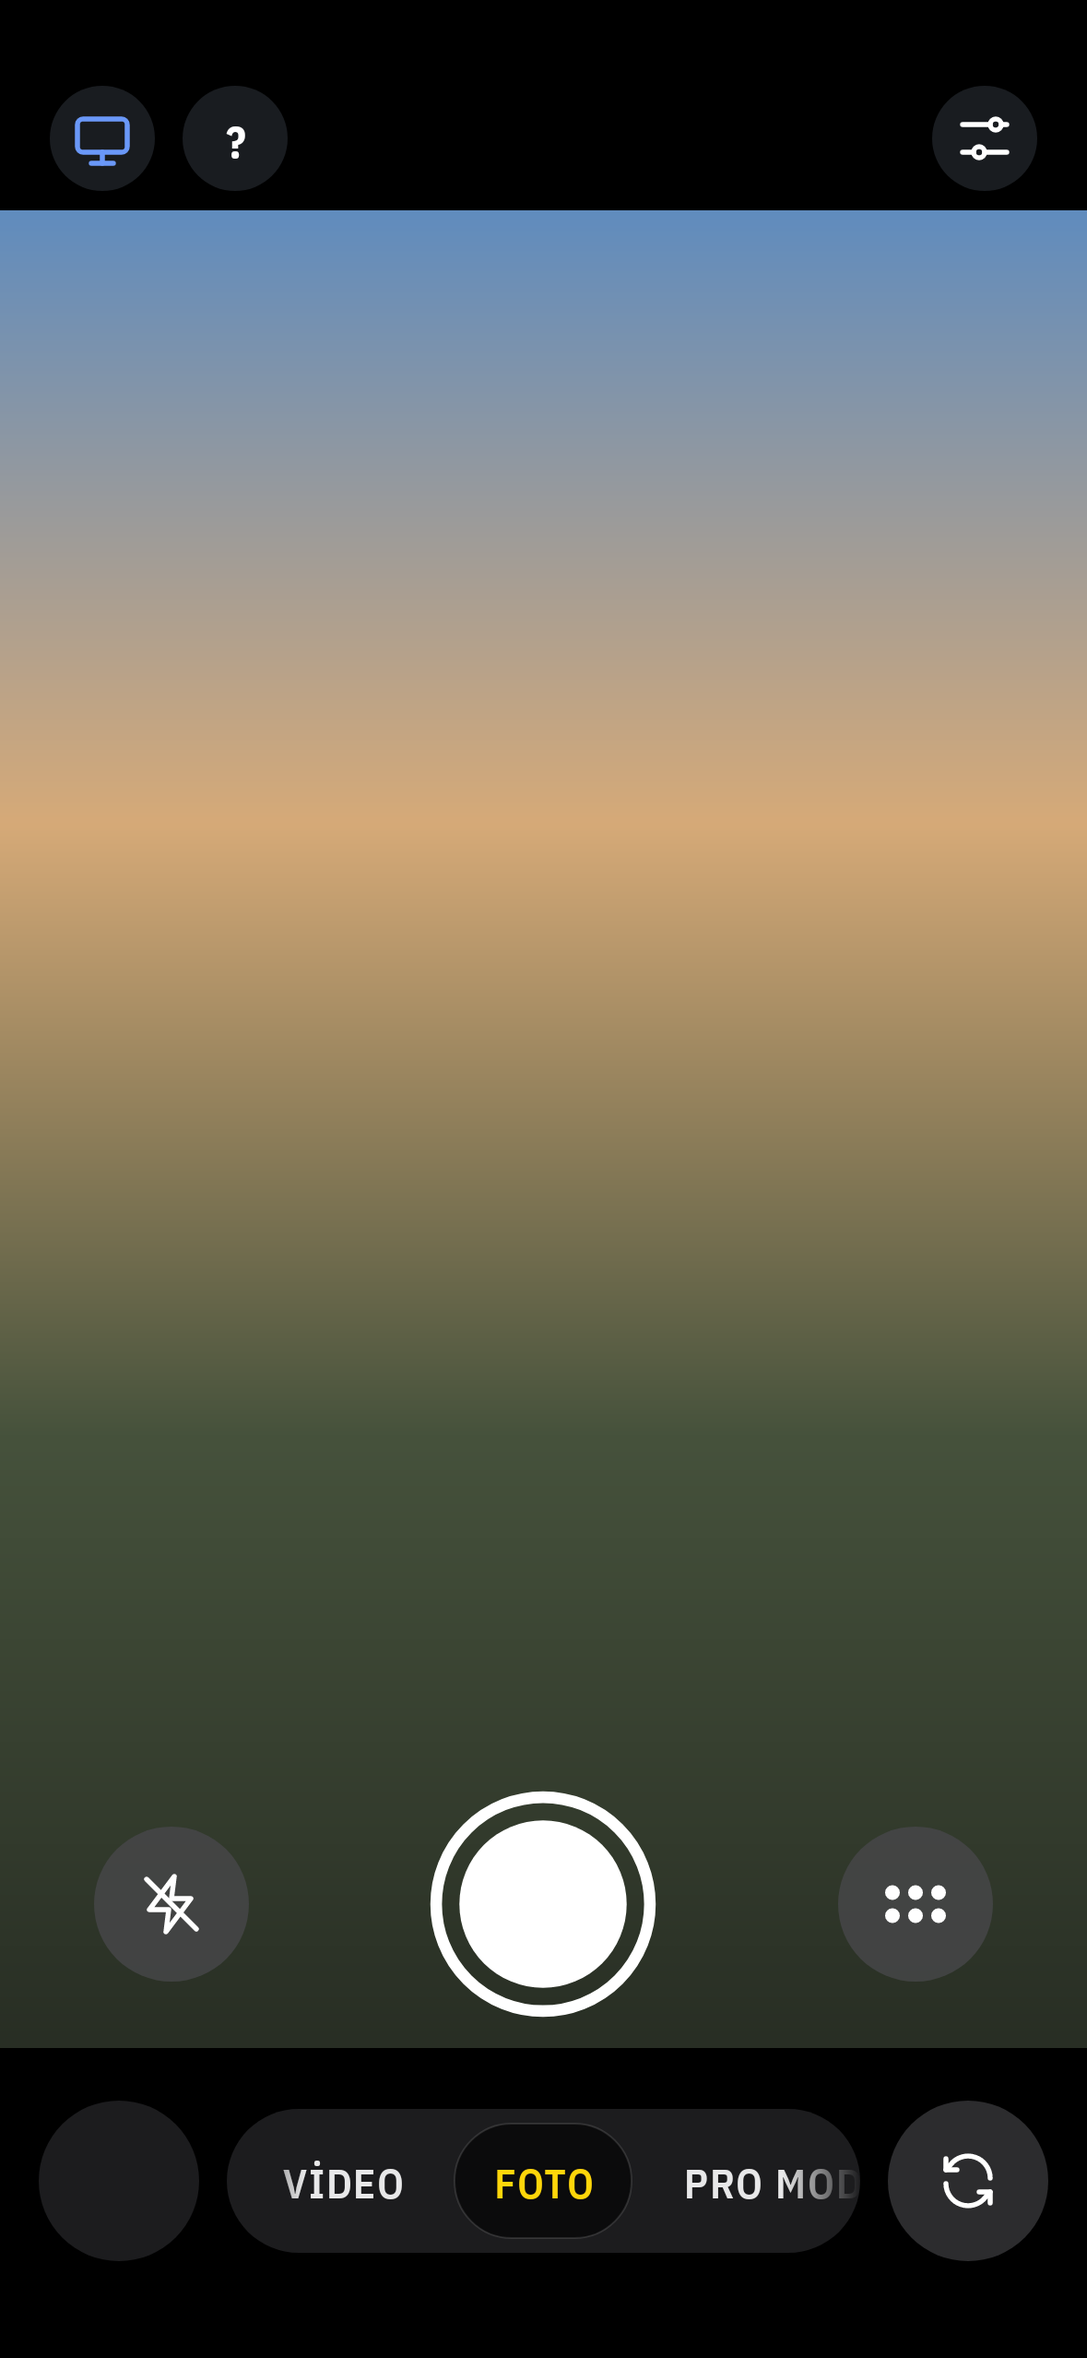
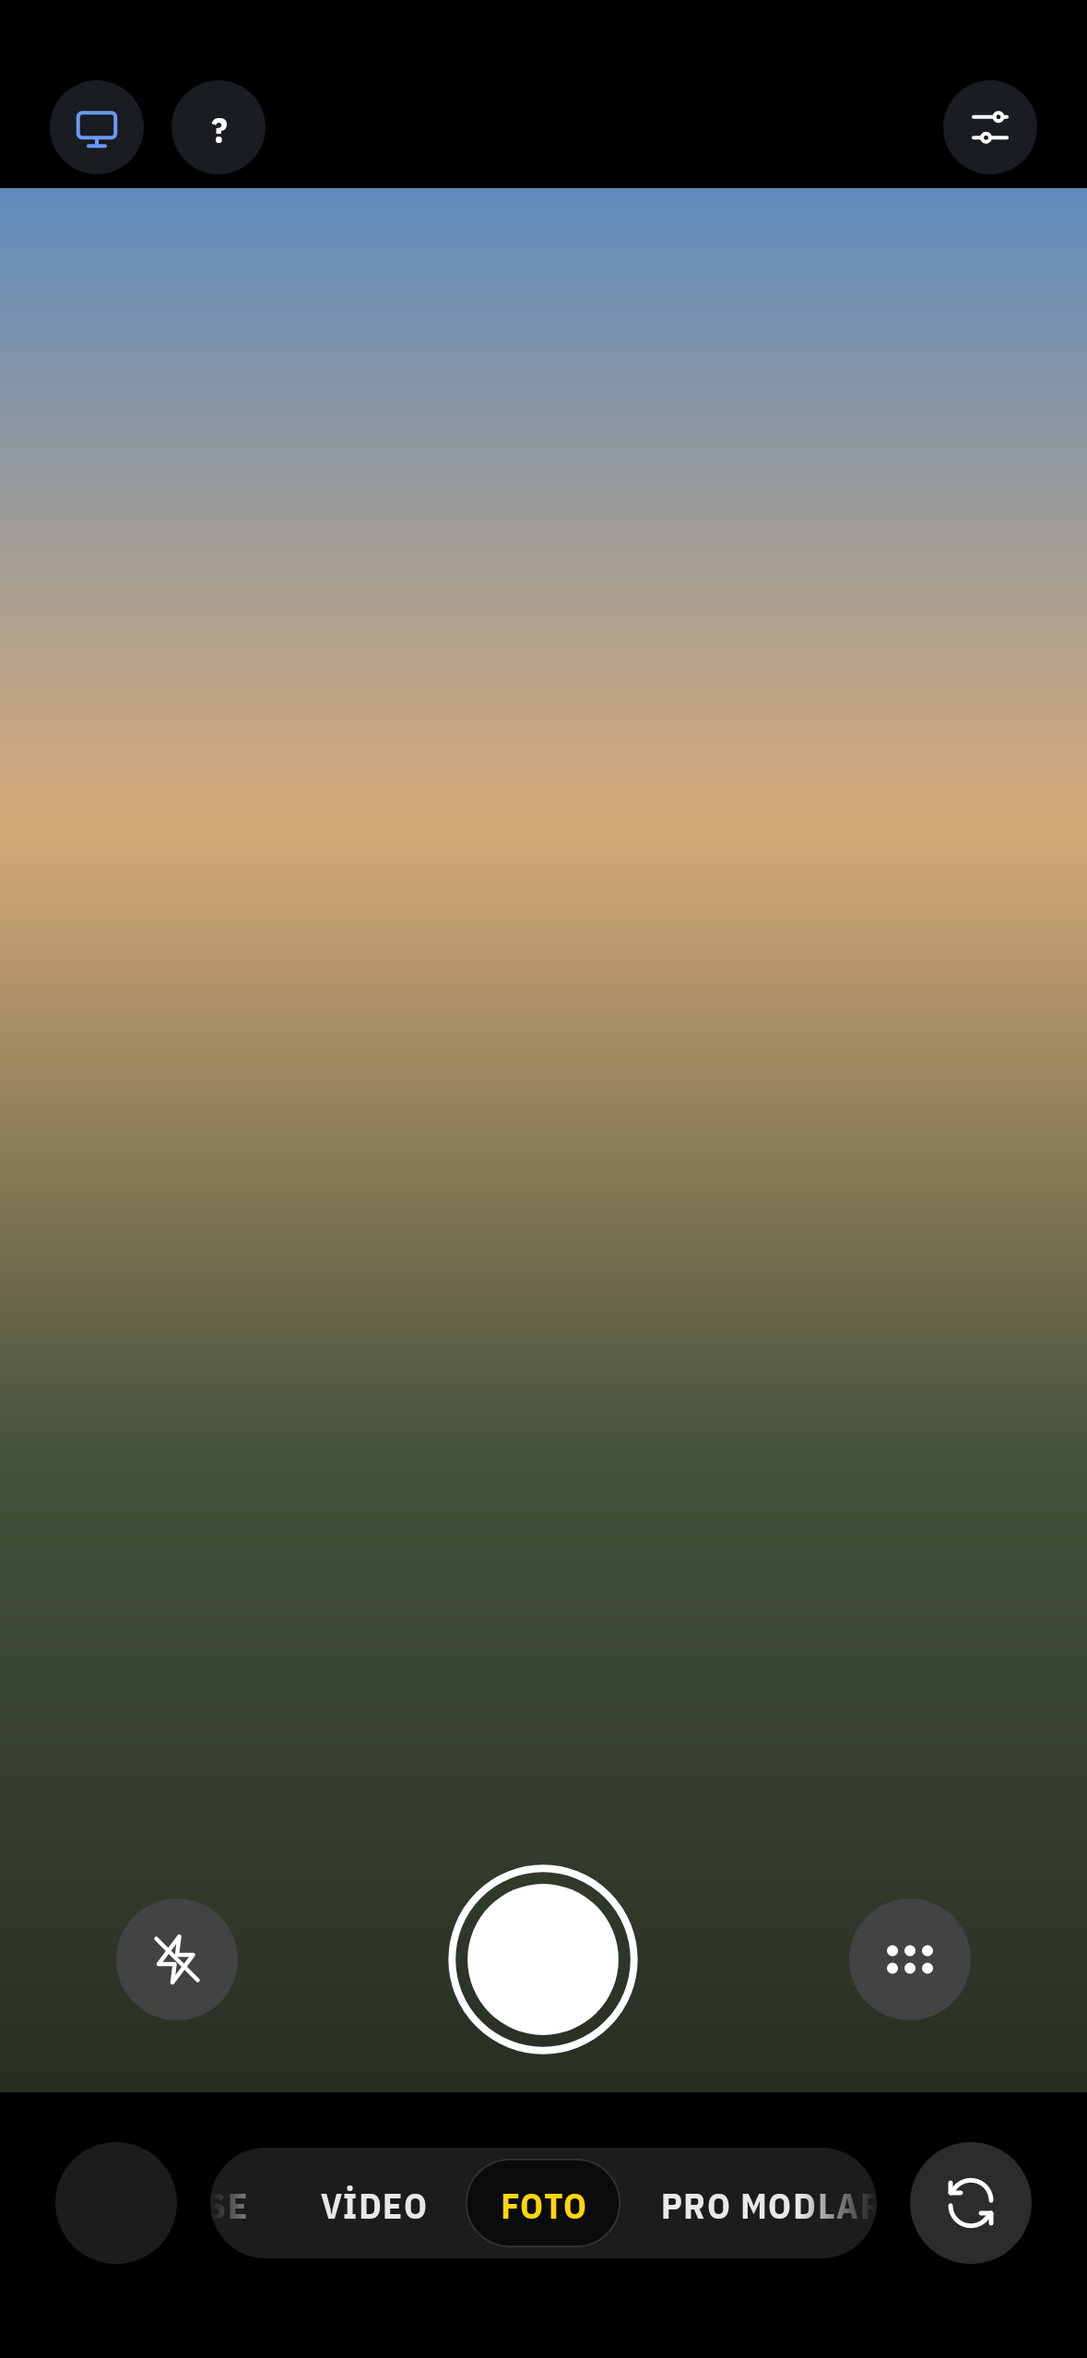
Android Kamera: düğmeler küçük ve ince (yan 44, deklanşör 70 ince halka, mod kapsülü 40 / yazı 13, üst 34)

Changed region(s): [[0.0, 0.7418, 1.0, 0.9581], [0.0, 0.0309, 1.0, 0.0927]]

diff --git a/uygulamalar/monitor/app/src/main/java/tr/com/updated/monitor/KameraActivity.kt b/uygulamalar/monitor/app/src/main/java/tr/com/updated/monitor/KameraActivity.kt
@@ -261,7 +261,7 @@ class KameraActivity : Activity() {
         bilgiSira = LinearLayout(this).apply { orientation = LinearLayout.HORIZONTAL; gravity = Gravity.CENTER; contentDescription = "Biçim"; setOnClickListener { bicimAc() }
             setPadding(dp(10f), dp(4f), dp(10f), dp(4f)) }
         aciklamalar.add(bilgiSira to "Biçim")
-        kutu.addView(bilgiSira, FrameLayout.LayoutParams(-2, dp(46f), Gravity.TOP or Gravity.CENTER_HORIZONTAL).apply { topMargin = dp(8f) })
+        kutu.addView(bilgiSira, FrameLayout.LayoutParams(-2, dp(38f), Gravity.TOP or Gravity.CENTER_HORIZONTAL).apply { topMargin = dp(6f) })
         kutu.addView(kayitCip, FrameLayout.LayoutParams(-2, dp(30f), Gravity.TOP or Gravity.CENTER_HORIZONTAL).apply { topMargin = dp(14f) })
         ortaYazi = TextView(this).apply { textSize = 88f; typeface = kosulKalin; setTextColor(Color.WHITE); setShadowLayer(12f, 0f, 0f, Color.BLACK); visibility = View.GONE; gravity = Gravity.CENTER }
         donenler.add(ortaYazi)
@@ -271,15 +271,15 @@ class KameraActivity : Activity() {
 
         // Üst bant: solda Monitör ve "?", sağda Ayarlar (flaş, biçim ve PRO deklanşör sırasında ve ⋯ kontrollerde)
         ustSerit = LinearLayout(this).apply { orientation = LinearLayout.HORIZONTAL; gravity = Gravity.CENTER_VERTICAL; setPadding(dp(2f), 0, dp(2f), 0) }
-        ustSerit.addView(ikon(R.drawable.ic_monitor, "Monitör") { monitoreGec() }.apply { setColorFilter(MAVI_ACIK); background = Tema.kapsul(CAM); aciklamalar.add(this to "Harici kamera (USB)") },
-            LinearLayout.LayoutParams(dp(38f), dp(38f)).apply { marginEnd = dp(10f) })
-        val yardim = etiket("?", 16f).apply { typeface = kosulKalin; background = Tema.kapsul(CAM); contentDescription = "Açıklamalar"; setOnClickListener { yardimAcKapat() } }
-        donenler.add(yardim); ustSerit.addView(yardim, LinearLayout.LayoutParams(dp(38f), dp(38f))); aciklamalar.add(yardim to "Açıklamalar")
+        ustSerit.addView(ikon(R.drawable.ic_monitor, "Monitör") { monitoreGec() }.apply { setColorFilter(MAVI_ACIK); background = Tema.kapsul(CAM); scaleType = ImageView.ScaleType.FIT_CENTER; setPadding(dp(8f), dp(8f), dp(8f), dp(8f)); aciklamalar.add(this to "Harici kamera (USB)") },
+            LinearLayout.LayoutParams(dp(34f), dp(34f)).apply { marginEnd = dp(10f) })
+        val yardim = etiket("?", 13f).apply { typeface = kosulKalin; background = Tema.kapsul(CAM); contentDescription = "Açıklamalar"; setOnClickListener { yardimAcKapat() } }
+        donenler.add(yardim); ustSerit.addView(yardim, LinearLayout.LayoutParams(dp(34f), dp(34f))); aciklamalar.add(yardim to "Açıklamalar")
         ustSerit.addView(View(this), LinearLayout.LayoutParams(0, 1, 1f))
-        ustSerit.addView(ikon(R.drawable.ic_ayar, "Ayarlar") { ayarlarAc() }.apply { background = Tema.kapsul(CAM); aciklamalar.add(this to "Ayarlar") }, LinearLayout.LayoutParams(dp(38f), dp(38f)))
+        ustSerit.addView(ikon(R.drawable.ic_ayar, "Ayarlar") { ayarlarAc() }.apply { background = Tema.kapsul(CAM); scaleType = ImageView.ScaleType.FIT_CENTER; setPadding(dp(8f), dp(8f), dp(8f), dp(8f)); aciklamalar.add(this to "Ayarlar") }, LinearLayout.LayoutParams(dp(34f), dp(34f)))
         kok.addView(ustSerit)
         // Flaş simgesi deklanşörün solundaki dairede
-        flasIkon = ImageView(this).apply { setImageResource(R.drawable.ic_flas_yok); scaleType = ImageView.ScaleType.CENTER }
+        flasIkon = ImageView(this).apply { setImageResource(R.drawable.ic_flas_yok); scaleType = ImageView.ScaleType.FIT_CENTER; setPadding(dp(12f), dp(12f), dp(12f), dp(12f)) }
         flasHarf = TextView(this).apply { text = "A"; textSize = 9f; typeface = kosulKalin; setTextColor(Color.WHITE); visibility = View.GONE }
 
         // Araç şeridi (eski düzen): araçların durumu burada tutulur
@@ -305,19 +305,19 @@ class KameraActivity : Activity() {
         // Deklanşör sırası: solda flaş (PRO'da mod), ortada deklanşör, sağda ⋯ kontroller
         deklansorSira = FrameLayout(this)
         solDugme = FrameLayout(this).apply { setOnClickListener { if (mod == KMod.PRO) proKartlar() else flasDegistir() }; contentDescription = "Flaş"; background = daire(false) }
-        proIkon = ImageView(this).apply { scaleType = ImageView.ScaleType.CENTER; setColorFilter(VURGU); visibility = View.GONE }
+        proIkon = ImageView(this).apply { scaleType = ImageView.ScaleType.FIT_CENTER; setPadding(dp(11f), dp(11f), dp(11f), dp(11f)); setColorFilter(VURGU); visibility = View.GONE }
         solDugme.addView(flasIkon, FrameLayout.LayoutParams(-1, -1)); solDugme.addView(proIkon, FrameLayout.LayoutParams(-1, -1))
-        solDugme.addView(flasHarf, FrameLayout.LayoutParams(-2, -2, Gravity.BOTTOM or Gravity.END).apply { marginEnd = dp(13f); bottomMargin = dp(11f) })
+        solDugme.addView(flasHarf, FrameLayout.LayoutParams(-2, -2, Gravity.BOTTOM or Gravity.END).apply { marginEnd = dp(9f); bottomMargin = dp(8f) })
         donenler.add(solDugme); aciklamalar.add(solDugme to "Flaş")
-        deklansorSira.addView(solDugme, FrameLayout.LayoutParams(dp(56f), dp(56f), Gravity.START or Gravity.CENTER_VERTICAL).apply { marginStart = dp(34f) })
+        deklansorSira.addView(solDugme, FrameLayout.LayoutParams(dp(44f), dp(44f), Gravity.START or Gravity.CENTER_VERTICAL).apply { marginStart = dp(42f) })
         deklansorDugme = KayitDugmesi(this).apply { setOnClickListener { deklansorBasildi() }; contentDescription = "Çek"
             setOnLongClickListener { seriBasla() }
             setOnTouchListener { _, e -> if (e.actionMasked == MotionEvent.ACTION_UP || e.actionMasked == MotionEvent.ACTION_CANCEL) seriBitir(); false } }; aciklamalar.add(deklansorDugme to "Çek")
-        deklansorSira.addView(deklansorDugme, FrameLayout.LayoutParams(dp(84f), dp(84f), Gravity.CENTER))
+        deklansorSira.addView(deklansorDugme, FrameLayout.LayoutParams(dp(70f), dp(70f), Gravity.CENTER))
         kontrolDugme = FrameLayout(this).apply { contentDescription = "Kontroller"; background = daire(false); setOnClickListener { if (acilir != null) acilirKapat() else kontrollerAc() } }
         kontrolDugme.addView(Noktalar(), FrameLayout.LayoutParams(-1, -1))
         donenler.add(kontrolDugme); aciklamalar.add(kontrolDugme to "Kontroller")
-        deklansorSira.addView(kontrolDugme, FrameLayout.LayoutParams(dp(56f), dp(56f), Gravity.END or Gravity.CENTER_VERTICAL).apply { marginEnd = dp(34f) })
+        deklansorSira.addView(kontrolDugme, FrameLayout.LayoutParams(dp(44f), dp(44f), Gravity.END or Gravity.CENTER_VERTICAL).apply { marginEnd = dp(42f) })
         kok.addView(deklansorSira)
 
         // Alt bant: son çekim · kapsül mod seçici · çevir
@@ -325,15 +325,15 @@ class KameraActivity : Activity() {
         sonResim = ImageView(this).apply { scaleType = ImageView.ScaleType.CENTER_CROP; background = daire(false, Color.rgb(28, 28, 30)); clipToOutline = true
             contentDescription = "Son çekim"; setOnClickListener { sonuAc() } }
         donenler.add(sonResim); aciklamalar.add(sonResim to "Son çekim")
-        altSira.addView(sonResim, FrameLayout.LayoutParams(dp(58f), dp(58f), Gravity.START or Gravity.CENTER_VERTICAL).apply { marginStart = dp(14f) })
+        altSira.addView(sonResim, FrameLayout.LayoutParams(dp(44f), dp(44f), Gravity.START or Gravity.CENTER_VERTICAL).apply { marginStart = dp(20f) })
         modSerit = LinearLayout(this).apply { orientation = LinearLayout.HORIZONTAL; gravity = Gravity.CENTER_VERTICAL }
         modKaydir = HorizontalScrollView(this).apply { isHorizontalScrollBarEnabled = false; addView(modSerit); background = Tema.kapsul(Color.rgb(28, 28, 30)); clipToOutline = true
             isHorizontalFadingEdgeEnabled = true; setFadingEdgeLength(dp(28f)) }
         aciklamalar.add(modKaydir to "Kaydır: çekim modu")
-        altSira.addView(modKaydir, FrameLayout.LayoutParams(-1, dp(52f), Gravity.CENTER).apply { marginStart = dp(82f); marginEnd = dp(82f) })
+        altSira.addView(modKaydir, FrameLayout.LayoutParams(-1, dp(40f), Gravity.CENTER).apply { marginStart = dp(76f); marginEnd = dp(76f) })
         modlariCiz()
-        val cevir = ikon(R.drawable.ic_cevir, "Kamerayı çevir") { kameraCevir() }.apply { background = daire(false, Color.rgb(44, 44, 46)) }; aciklamalar.add(cevir to "Ön / arka")
-        altSira.addView(cevir, FrameLayout.LayoutParams(dp(58f), dp(58f), Gravity.END or Gravity.CENTER_VERTICAL).apply { marginEnd = dp(14f) })
+        val cevir = ikon(R.drawable.ic_cevir, "Kamerayı çevir") { kameraCevir() }.apply { background = daire(false, Color.rgb(44, 44, 46)); scaleType = ImageView.ScaleType.FIT_CENTER; setPadding(dp(11f), dp(11f), dp(11f), dp(11f)) }; aciklamalar.add(cevir to "Ön / arka")
+        altSira.addView(cevir, FrameLayout.LayoutParams(dp(44f), dp(44f), Gravity.END or Gravity.CENTER_VERTICAL).apply { marginEnd = dp(20f) })
         kok.addView(altSira)
         // Wi-Fi kamera: canlıdayken kırmızı çerçeve (tally), üstte bağlantı durumu
         tallyCerceve = View(this).apply { background = GradientDrawable().apply { setStroke(dp(6f), Color.rgb(229, 57, 53)) }; visibility = View.GONE; isClickable = false }
@@ -350,13 +350,13 @@ class KameraActivity : Activity() {
     private fun yerlestir() {
         if (!this::kok.isInitialized) return
         val u = if (ustBosluk == 0) dp(32f) else ustBosluk; val a = if (altBosluk == 0) dp(16f) else altBosluk
-        // Üst bant 52, alt bant 96 (siyah); deklanşör sırası, mercekler ve timelapse aralığı görüntünün alt kısmının üstünde
-        ustSerit.layoutParams = FrameLayout.LayoutParams(-1, dp(44f), Gravity.TOP).apply { topMargin = u + dp(4f); marginStart = dp(16f); marginEnd = dp(16f) }
-        kutu.layoutParams = FrameLayout.LayoutParams(-1, -1).apply { topMargin = u + dp(52f); bottomMargin = a + dp(96f) }
-        altSira.layoutParams = FrameLayout.LayoutParams(-1, dp(96f), Gravity.BOTTOM).apply { bottomMargin = a }
-        deklansorSira.layoutParams = FrameLayout.LayoutParams(-1, dp(88f), Gravity.BOTTOM).apply { bottomMargin = a + dp(104f) }
-        zoomSira.layoutParams = FrameLayout.LayoutParams(-1, dp(46f), Gravity.BOTTOM).apply { bottomMargin = a + dp(204f) }
-        sureSira.layoutParams = FrameLayout.LayoutParams(-1, dp(34f), Gravity.BOTTOM).apply { bottomMargin = a + dp(258f) }
+        // Üst bant 44, alt bant 80 (siyah); deklanşör sırası, mercekler ve timelapse aralığı görüntünün alt kısmının üstünde
+        ustSerit.layoutParams = FrameLayout.LayoutParams(-1, dp(40f), Gravity.TOP).apply { topMargin = u + dp(2f); marginStart = dp(16f); marginEnd = dp(16f) }
+        kutu.layoutParams = FrameLayout.LayoutParams(-1, -1).apply { topMargin = u + dp(44f); bottomMargin = a + dp(80f) }
+        altSira.layoutParams = FrameLayout.LayoutParams(-1, dp(80f), Gravity.BOTTOM).apply { bottomMargin = a }
+        deklansorSira.layoutParams = FrameLayout.LayoutParams(-1, dp(76f), Gravity.BOTTOM).apply { bottomMargin = a + dp(90f) }
+        zoomSira.layoutParams = FrameLayout.LayoutParams(-1, dp(40f), Gravity.BOTTOM).apply { bottomMargin = a + dp(174f) }
+        sureSira.layoutParams = FrameLayout.LayoutParams(-1, dp(32f), Gravity.BOTTOM).apply { bottomMargin = a + dp(220f) }
         kok.requestLayout()
     }
 
@@ -368,12 +368,12 @@ class KameraActivity : Activity() {
     /* ================= modlar ================= */
     private fun modlariCiz() {
         modSerit.removeAllViews()
-        val ekranG = resources.displayMetrics.widthPixels - dp(164f)
-        modSerit.addView(View(this), LinearLayout.LayoutParams(ekranG / 2 - dp(40f), 1))
-        KMod.values().forEach { m -> modSerit.addView(etiket(m.ad, 15f, if (m == mod) VURGU else if (m == KMod.MONITOR) MAVI_ACIK else Color.argb(230, 255, 255, 255)).apply {
-            setPadding(dp(14f), 0, dp(14f), 0); tag = m; contentDescription = m.ad; setOnClickListener { modSec(m) }
-            if (m == mod) background = Tema.kapsul(Color.argb(150, 0, 0, 0), 999f, Color.argb(30, 255, 255, 255)) }, LinearLayout.LayoutParams(-2, dp(42f)).apply { marginStart = dp(2f); marginEnd = dp(2f) }) }
-        modSerit.addView(View(this), LinearLayout.LayoutParams(ekranG / 2 - dp(40f), 1))
+        val ekranG = resources.displayMetrics.widthPixels - dp(152f)
+        modSerit.addView(View(this), LinearLayout.LayoutParams(ekranG / 2 - dp(32f), 1))
+        KMod.values().forEach { m -> modSerit.addView(etiket(m.ad, 13f, if (m == mod) VURGU else if (m == KMod.MONITOR) MAVI_ACIK else Color.argb(230, 255, 255, 255)).apply {
+            setPadding(dp(12f), 0, dp(12f), 0); tag = m; typeface = kosulKalin; contentDescription = m.ad; setOnClickListener { modSec(m) }
+            if (m == mod) background = Tema.kapsul(Color.argb(150, 0, 0, 0), 999f, Color.argb(30, 255, 255, 255)) }, LinearLayout.LayoutParams(-2, dp(32f)).apply { marginStart = dp(1f); marginEnd = dp(1f) }) }
+        modSerit.addView(View(this), LinearLayout.LayoutParams(ekranG / 2 - dp(32f), 1))
         modKaydir.post { (0 until modSerit.childCount).map { modSerit.getChildAt(it) }.firstOrNull { it.tag == mod }?.let { v -> modKaydir.smoothScrollTo(v.left + v.width / 2 - modKaydir.width / 2, 0) } }
     }
 
@@ -1033,11 +1033,11 @@ class KameraActivity : Activity() {
         bilgiSira.removeAllViews()
         ogeler.forEach { (ust, alt, sari) ->
             bilgiSira.addView(LinearLayout(this).apply { orientation = LinearLayout.VERTICAL; gravity = Gravity.CENTER
-                addView(TextView(this@KameraActivity).apply { text = ust; textSize = 17f; typeface = kosulKalin; setTextColor(if (sari) VURGU else Color.WHITE); gravity = Gravity.CENTER
+                addView(TextView(this@KameraActivity).apply { text = ust; textSize = 14f; typeface = kosulKalin; setTextColor(if (sari) VURGU else Color.WHITE); gravity = Gravity.CENTER
                     setShadowLayer(dp(3f).toFloat(), 0f, 0f, Color.argb(140, 0, 0, 0)) })
-                addView(TextView(this@KameraActivity).apply { text = alt; textSize = 10f; typeface = kosulKalin; setTextColor(if (sari) VURGU else Color.WHITE); gravity = Gravity.CENTER
+                addView(TextView(this@KameraActivity).apply { text = alt; textSize = 8.5f; typeface = kosulKalin; setTextColor(if (sari) VURGU else Color.WHITE); gravity = Gravity.CENTER
                     setShadowLayer(dp(3f).toFloat(), 0f, 0f, Color.argb(140, 0, 0, 0)) })
-            }, LinearLayout.LayoutParams(-2, -2).apply { marginStart = dp(9f); marginEnd = dp(9f) })
+            }, LinearLayout.LayoutParams(-2, -2).apply { marginStart = dp(8f); marginEnd = dp(8f) })
         }
         bilgiSira.visibility = if (k == null || kayitCip.visibility == View.VISIBLE) View.INVISIBLE else View.VISIBLE
     }
@@ -1109,12 +1109,12 @@ class KameraActivity : Activity() {
             sira.forEach { o ->
                 val h = LinearLayout(this).apply { orientation = LinearLayout.VERTICAL; gravity = Gravity.CENTER_HORIZONTAL; contentDescription = o.ad; setOnClickListener { o.is_() }; setPadding(0, dp(6f), 0, dp(8f)) }
                 val renk = if (o.etkin) VURGU else Color.WHITE
-                val dai: View = if (o.simge != null) ImageView(this).apply { setImageResource(o.simge); setColorFilter(renk); scaleType = ImageView.ScaleType.CENTER }
-                    else etiket(o.harf ?: "", 15f, renk).apply { typeface = kosulKalin }
+                val dai: View = if (o.simge != null) ImageView(this).apply { setImageResource(o.simge); setColorFilter(renk); scaleType = ImageView.ScaleType.FIT_CENTER; setPadding(dp(13f), dp(13f), dp(13f), dp(13f)) }
+                    else etiket(o.harf ?: "", 12f, renk).apply { typeface = kosulKalin }
                 dai.background = daire(o.etkin, Color.argb(34, 255, 255, 255)); dai.rotation = -fizikselYon.toFloat()
-                h.addView(dai, LinearLayout.LayoutParams(dp(56f), dp(56f)))
-                h.addView(etiket(o.ad, 11.5f).apply { setPadding(0, dp(6f), 0, 0) })
-                h.addView(etiket(o.deger, 10.5f, if (o.etkin) VURGU else GRI))
+                h.addView(dai, LinearLayout.LayoutParams(dp(46f), dp(46f)))
+                h.addView(etiket(o.ad, 10.5f).apply { setPadding(0, dp(5f), 0, 0) })
+                h.addView(etiket(o.deger, 9.5f, if (o.etkin) VURGU else GRI))
                 s.addView(h, LinearLayout.LayoutParams(0, -2, 1f))
             }
             repeat(4 - sira.size) { s.addView(View(this), LinearLayout.LayoutParams(0, 1, 1f)) }
@@ -1128,7 +1128,7 @@ class KameraActivity : Activity() {
         private val boya = android.graphics.Paint(android.graphics.Paint.ANTI_ALIAS_FLAG)
         var renk = Color.WHITE; set(v) { field = v; invalidate() }
         override fun onDraw(c: android.graphics.Canvas) {
-            boya.color = renk; val r = dp(2.8f).toFloat(); val ara = dp(8.5f).toFloat()
+            boya.color = renk; val r = dp(2.1f).toFloat(); val ara = dp(6.5f).toFloat()
             for (i in -1..1) for (j in 0..1) c.drawCircle(width / 2f + i * ara, height / 2f + (j - 0.5f) * ara, r, boya)
         }
     }

diff --git a/uygulamalar/monitor/app/src/main/java/tr/com/updated/monitor/Gostergeler.kt b/uygulamalar/monitor/app/src/main/java/tr/com/updated/monitor/Gostergeler.kt
@@ -24,13 +24,13 @@ class KayitDugmesi(c: Context) : View(c) {
     private val kirmizi = Paint(Paint.ANTI_ALIAS_FLAG).apply { color = Color.rgb(230, 40, 40) }
     override fun onDraw(c: Canvas) {
         val r = minOf(width, height) / 2f; val cx = width / 2f; val cy = height / 2f
-        halka.strokeWidth = r * 0.1f
-        c.drawCircle(cx, cy, r * 0.92f, halka)
-        if (foto) { c.drawCircle(cx, cy, r * (if (basili) 0.62f else 0.72f), beyaz); return }
+        halka.strokeWidth = r * 0.075f
+        c.drawCircle(cx, cy, r * 0.94f, halka)
+        if (foto) { c.drawCircle(cx, cy, r * (if (basili) 0.68f else 0.78f), beyaz); return }
         if (kayitta) {
             val a = (System.currentTimeMillis() / 500 % 2 == 0L); kirmizi.alpha = if (a) 255 else 200
             val s = r * 0.42f; c.drawRoundRect(RectF(cx - s, cy - s, cx + s, cy + s), s * 0.25f, s * 0.25f, kirmizi); postInvalidateDelayed(500)
-        } else { kirmizi.alpha = 255; c.drawCircle(cx, cy, r * 0.7f, kirmizi) }
+        } else { kirmizi.alpha = 255; c.drawCircle(cx, cy, r * 0.76f, kirmizi) }
     }
 }
 
